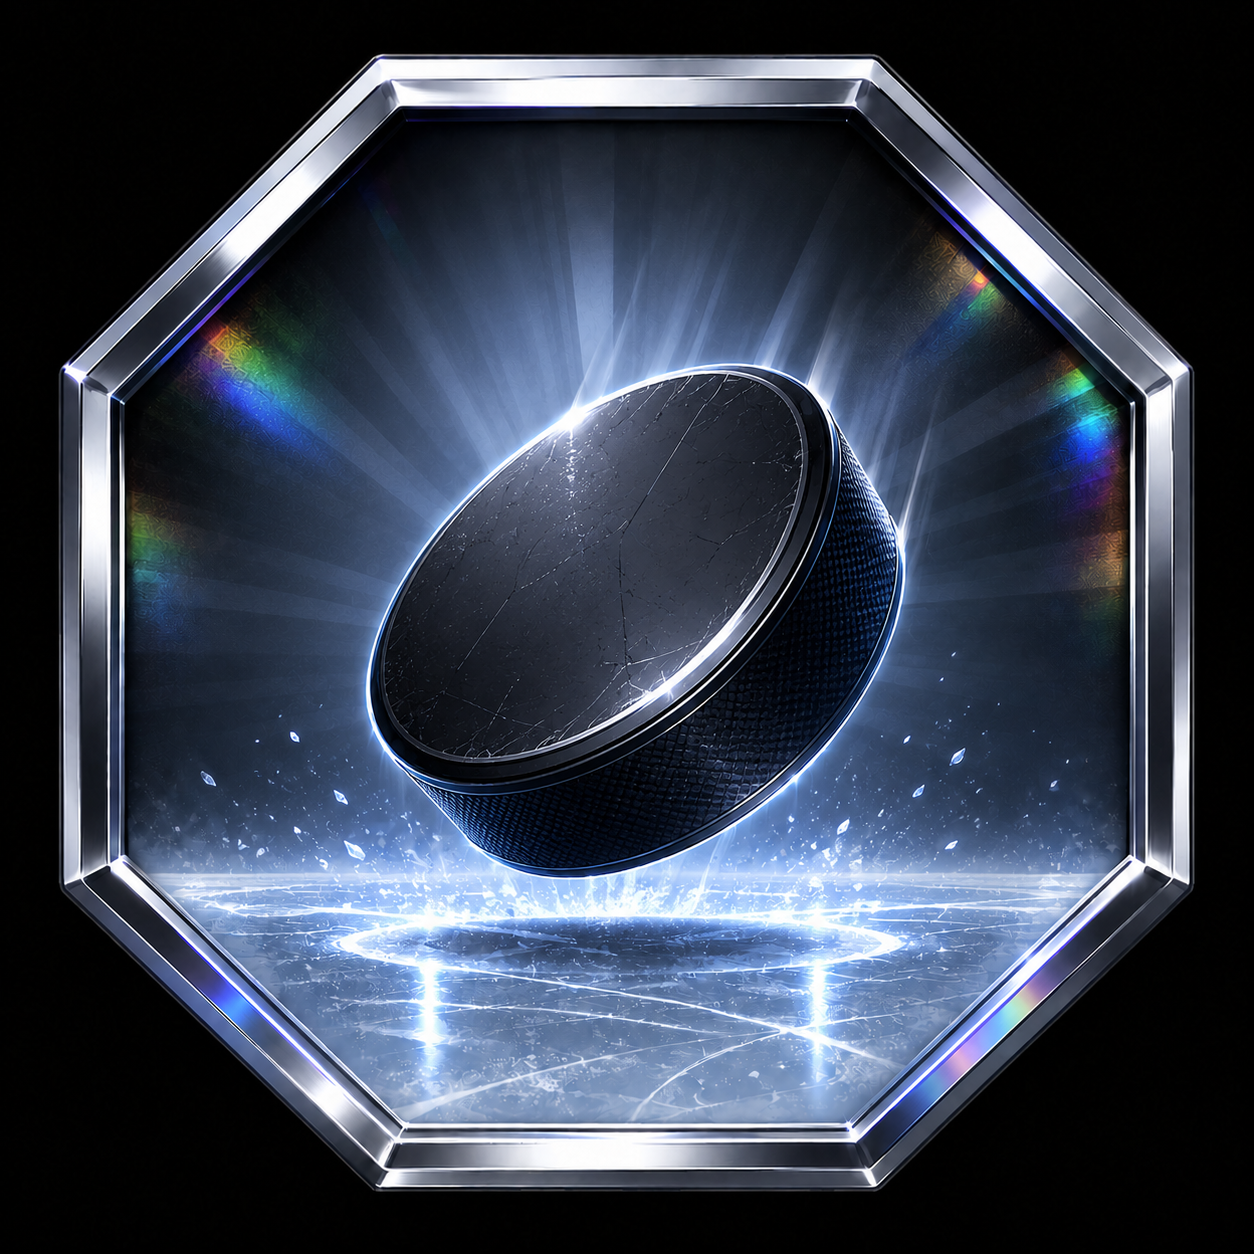
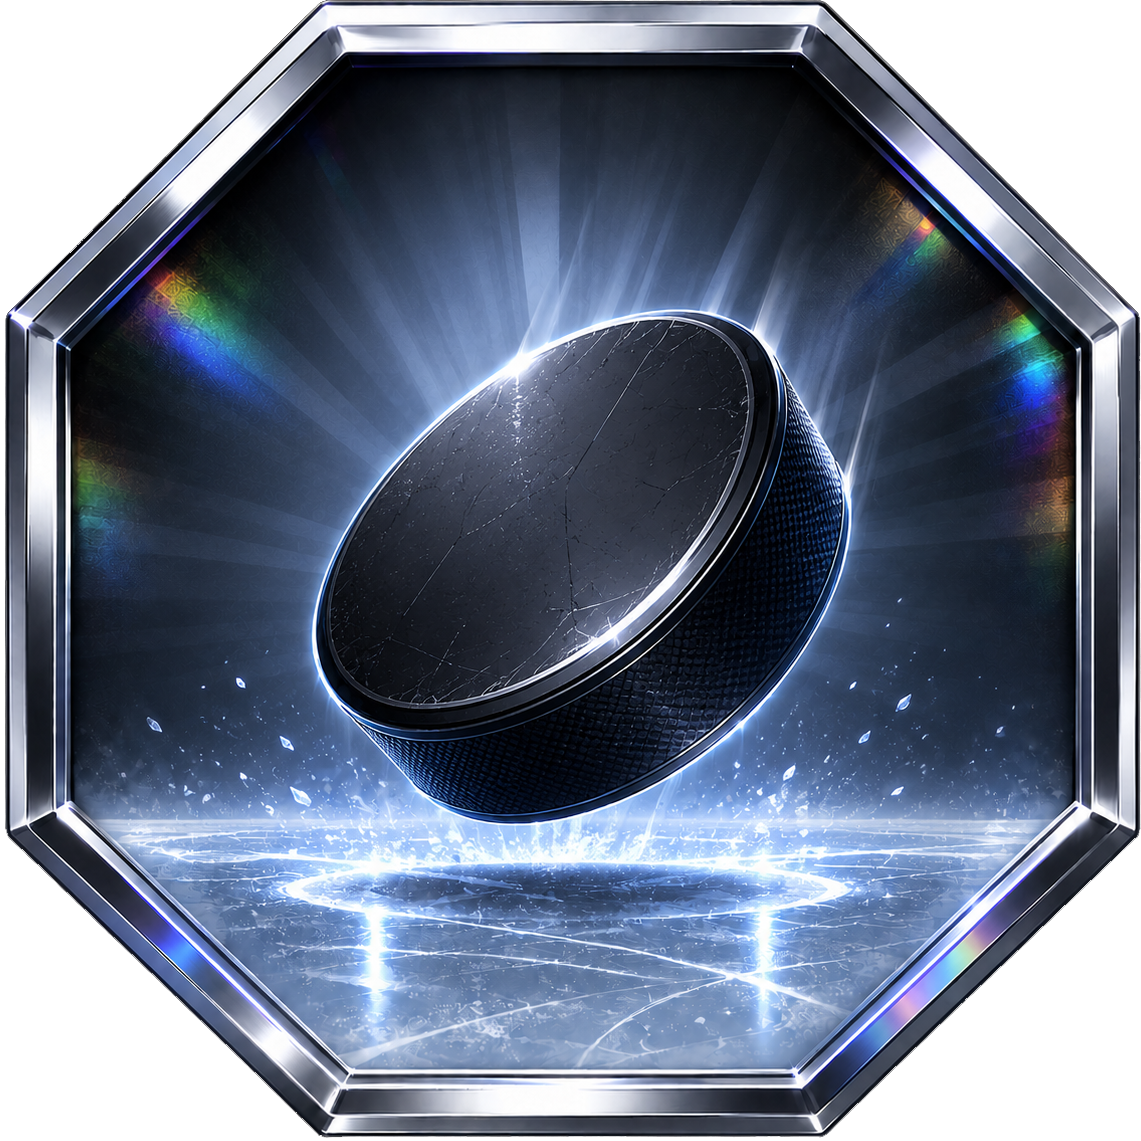
fix: use badge images in Player and ChallengerRoadProfileSection trophy displays
- Player.dart: replace circle+Icon trophy case slots with trophyIconWidget badge images
- ChallengerRoadProfileSection.dart: replace remaining circle+Icon containers
  with badge images across showcase, swap sheet, and picker grid
- Update 13 modified trophy badge PNGs

diff --git a/lib/tabs/profile/ChallengerRoadProfileSection.dart b/lib/tabs/profile/ChallengerRoadProfileSection.dart
@@ -860,12 +860,10 @@ class _FeaturedSlotSwapSheetState extends State<_FeaturedSlotSwapSheet> {
                     width: 46,
                     height: 46,
                     decoration: BoxDecoration(
-                      shape: BoxShape.circle,
-                      color: _crBadgeColor(widget.currentDef!).withValues(alpha: 0.18),
-                      border: Border.all(color: _crBadgeColor(widget.currentDef!), width: 2),
-                      boxShadow: [BoxShadow(color: _crBadgeColor(widget.currentDef!).withValues(alpha: 0.3), blurRadius: 6)],
+                      borderRadius: BorderRadius.circular(8),
+                      boxShadow: [BoxShadow(color: _crBadgeColor(widget.currentDef!).withValues(alpha: 0.35), blurRadius: 8)],
                     ),
-                    child: Icon(_crBadgeIcon(widget.currentDef!), color: _crBadgeColor(widget.currentDef!), size: 22),
+                    child: ChallengerRoadService.trophyIconWidget(widget.currentDef!, size: 46, color: _crBadgeColor(widget.currentDef!)),
                   ),
                   const SizedBox(width: 12),
                   Expanded(
@@ -1010,10 +1008,6 @@ Color _crBadgeColor(ChallengerRoadTrophyDefinition def) {
     case ChallengerRoadTrophyCategory.chirpy:
       return const Color(0xFF78909C);
   }
-}
-
-IconData _crBadgeIcon(ChallengerRoadTrophyDefinition def) {
-  return ChallengerRoadService.iconForTrophy(def);
 }
 
 // ── Featured Badges Showcase ─────────────────────────────────────────────────

diff --git a/lib/tabs/friends/Player.dart b/lib/tabs/friends/Player.dart
@@ -834,12 +834,10 @@ class _PlayerState extends State<Player> {
             width: 36,
             height: 36,
             decoration: BoxDecoration(
-              shape: BoxShape.circle,
-              color: color.withValues(alpha: 0.15),
-              border: Border.all(color: color, width: 1.8),
-              boxShadow: [BoxShadow(color: color.withValues(alpha: 0.25), blurRadius: 6)],
+              borderRadius: BorderRadius.circular(6),
+              boxShadow: [BoxShadow(color: color.withValues(alpha: 0.35), blurRadius: 6)],
             ),
-            child: ChallengerRoadService.trophyIconWidget(def, size: 18, color: color),
+            child: ChallengerRoadService.trophyIconWidget(def, size: 36, color: color),
           ),
           const SizedBox(height: 4),
           SizedBox(
